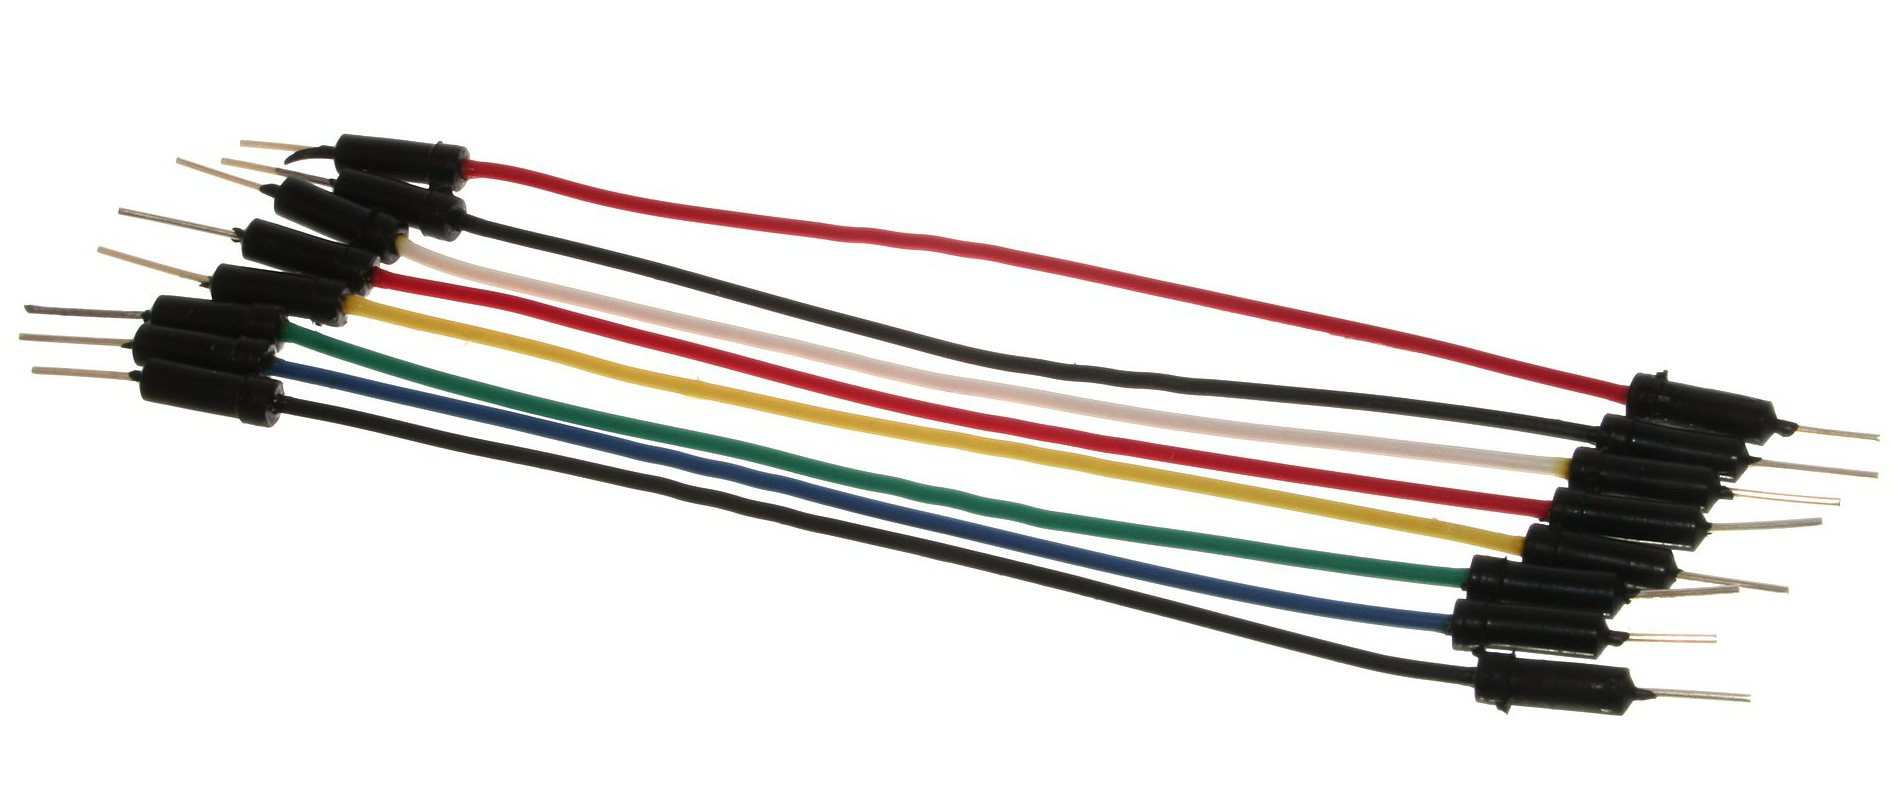
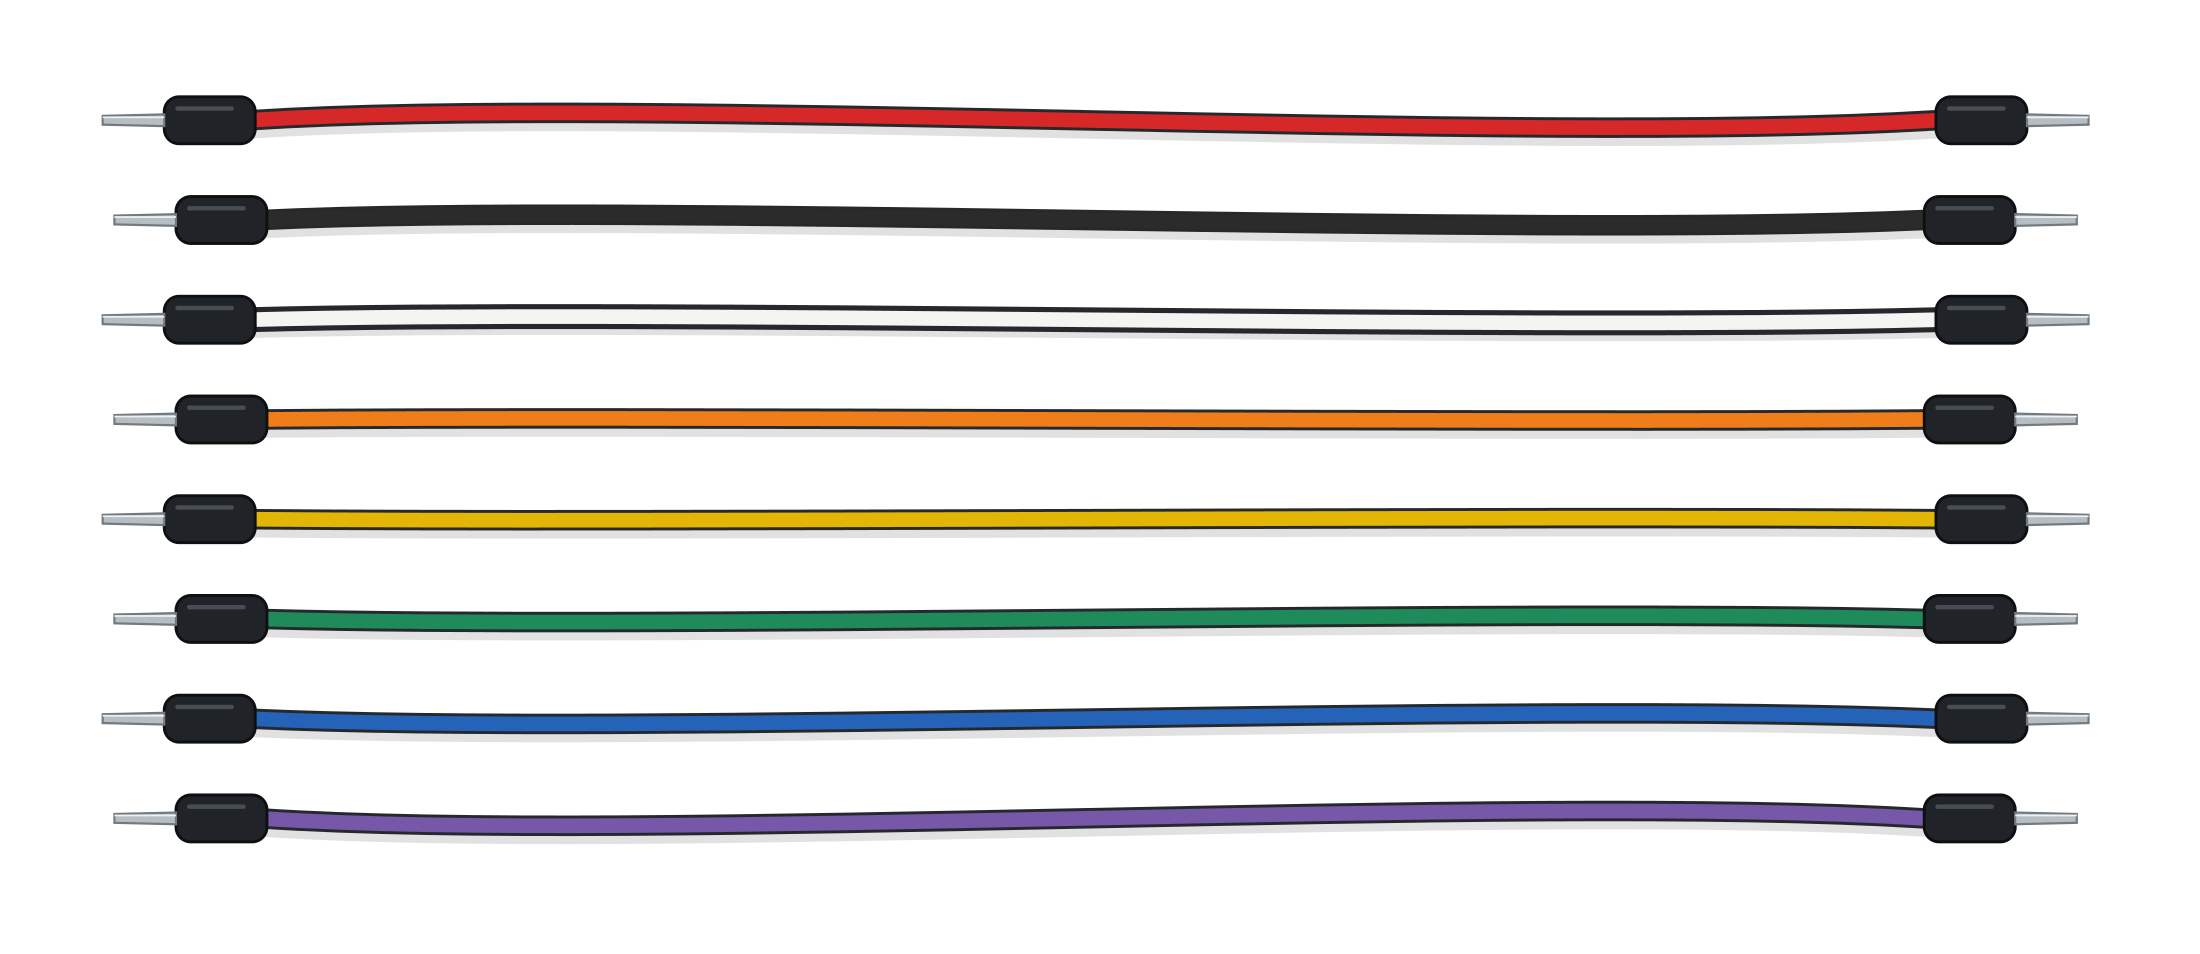
Update illustrations

diff --git a/micropython_workshop/project_guide/electronics_preamble/electronics_preamble.tex b/micropython_workshop/project_guide/electronics_preamble/electronics_preamble.tex
@@ -3,8 +3,8 @@
 This beginner's guide introduces the essential components and circuit-building concepts
 you will use throughout this workshop. We will cover the breadboard, LEDs, current-limiting
 resistors, pushbuttons, jumper wires, and fundamental electrical safety. Later projects will
-introduce additional modules---such as addressable RGB LEDs, rotary encoders, speakers, OLED
-displays, and motion sensors---which connect using these same breadboard rows and power rails.
+introduce additional modules---such as addressable RGB LEDs, rotary encoders, speakers, and OLED
+displays---which connect using these same breadboard rows and power rails.
 
 \section{The Breadboard: Your Circuit's Foundation}
 
@@ -71,35 +71,7 @@ LEDs are \textbf{polarized}---electricity can only flow through them in one dire
 
 \begin{figure}[H]
 \centering
-\begin{tikzpicture}[x=1cm,y=1cm,>=latex]
-    % Side view: the unequal lead lengths are deliberately exaggerated.
-    \node[font=\bfseries] at (-2.2,1.45) {Side view};
-    \fill[red!55,draw=black,line width=1pt]
-        (-2.95,0) -- (-2.95,0.55) arc[start angle=180,end angle=0,radius=0.75]
-        -- (-1.45,0) -- cycle;
-    \fill[red!70,draw=black,line width=1pt] (-3.05,-0.22) rectangle (-1.35,0);
-    \draw[line width=1.6pt,gray!65!black] (-2.65,-0.22) -- (-2.65,-2.05);
-    \draw[line width=1.6pt,gray!65!black] (-1.75,-0.22) -- (-1.75,-1.35);
-
-    \draw[->,thick,red!70!black] (-3.9,-1.75) -- (-2.75,-1.75);
-    \node[anchor=east,align=right] at (-3.9,-1.75)
-        {\textbf{Anode (+)}\\\small longer lead};
-    \draw[->,thick,blue!70!black] (-0.55,-1.15) -- (-1.65,-1.15);
-    \node[anchor=west,align=left] at (-0.55,-1.15)
-        {\textbf{Cathode (--) }\\\small shorter lead};
-
-    % Top view: the dome is round; only the wider base lip has a small flat.
-    \node[font=\bfseries] at (3.0,1.45) {Top view};
-    \fill[red!70,draw=black,line width=1pt]
-        (3.76,0.38)
-        arc[start angle=26.6,end angle=333.4,radius=0.85]
-        -- cycle;
-    \fill[red!45,draw=black,line width=1pt] (3.0,0) circle[radius=0.68];
-    \draw[line width=2pt,blue!70!black] (3.76,-0.38) -- (3.76,0.38);
-    \draw[->,thick,blue!70!black] (5.35,0) -- (3.86,0);
-    \node[anchor=west,align=left] at (5.35,0)
-        {\textbf{Flat on base lip}\\\small marks the cathode};
-\end{tikzpicture}
+\maybeincludegraphics[width=.9\linewidth]{electronics_preamble/led_polarity.png}
 \caption{Use either clue to identify LED polarity: the cathode has the shorter lead and the flat edge.}
 \label{fig:led_polarity}
 \end{figure}

diff --git a/micropython_workshop/project_guide/common/resistor_identification.tex b/micropython_workshop/project_guide/common/resistor_identification.tex
@@ -1,33 +1,10 @@
-% Telling the 220 ohm and 10k ohm resistors apart. The resistors are drawn with
-% TikZ rather than photographed because the band colors have to stay readable
-% when the guide is printed in a classroom.
-\providecolor{bodymetal}{HTML}{9FC2E8}
-% xcolor's brown is a light tan that reads as gold next to the other bands.
-\providecolor{bandbrown}{HTML}{7B4A12}
-
-% \resistorglyph{band 1}{band 2}{band 3}{band 4}{band 5}
-% The kit's resistors carry one band on each end bulge and three across the
-% middle, all at roughly even spacing, so the geometry here is fixed.
-\providecommand{\resistorglyph}[5]{%
-\begin{tikzpicture}[x=1cm, y=1cm]
-    \draw[line width=1pt, gray!50!black] (-0.5,0.3) -- (2.8,0.3);
-    \draw[fill=bodymetal, draw=black!55] (0.24,0.04) rectangle (2.06,0.56);
-    \draw[fill=bodymetal, draw=black!55, rounded corners=3pt] (0.02,0) rectangle (0.46,0.6);
-    \draw[fill=bodymetal, draw=black!55, rounded corners=3pt] (1.84,0) rectangle (2.28,0.6);
-    \fill[#1] (0.16,0.01) rectangle (0.32,0.59);
-    \fill[#2] (0.62,0.05) rectangle (0.78,0.55);
-    \fill[#3] (1.07,0.05) rectangle (1.23,0.55);
-    \fill[#4] (1.52,0.05) rectangle (1.68,0.55);
-    \fill[#5] (1.98,0.01) rectangle (2.14,0.59);
-\end{tikzpicture}%
-}
-
-% \resistorcell{value}{band 1}{band 2}{band 3}{band 4}{band 5}{caption}
-\providecommand{\resistorcell}[7]{%
+% The resistor graphics are generated with the other guide illustrations.
+% \resistorcell{value}{image filename}{caption}
+\providecommand{\resistorcell}[3]{%
 \begin{tabular}{c}
     \textbf{#1} \\[4pt]
-    \resistorglyph{#2}{#3}{#4}{#5}{#6} \\[2pt]
-    \small #7
+    \maybeincludegraphics[width=3cm]{electronics_preamble/#2} \\[2pt]
+    \small #3
 \end{tabular}%
 }
 
@@ -42,7 +19,7 @@
     \medskip
     \centering
     \begin{tabular}{c @{\hspace{3em}} c}
-        \resistorcell{220\si{\ohm}}{red}{red}{black}{black}{bandbrown}{two red bands} &
-        \resistorcell{10\si{\kilo\ohm}}{bandbrown}{black}{black}{red}{bandbrown}{one red band}
+        \resistorcell{220\si{\ohm}}{resistor_220.png}{two red bands} &
+        \resistorcell{10\si{\kilo\ohm}}{resistor_10k.png}{one red band}
     \end{tabular}
 \end{tcolorbox}

diff --git a/micropython_workshop/project_guide/projects/project_1.tex b/micropython_workshop/project_guide/projects/project_1.tex
@@ -81,20 +81,7 @@ other in \bbhole{ldr-resistor.end}{A14}.
 The LDR and the 10\si{\kilo\ohm} resistor share column 10 to form a \textbf{voltage divider}:
 
 \begin{center}
-\begin{tikzpicture}[x=1cm, y=1cm, >=latex]
-    \node[draw, rounded corners, fill=red!10, text=black, inner sep=4pt] (vcc) at (0,0) {\textbf{3.3V}};
-    \node[draw, fill=yellow!15, text=black, inner sep=4pt] (ldr) at (2.2,0) {\textbf{LDR}};
-    \node[draw, circle, fill=blue!15, text=black, inner sep=2pt] (sense) at (4.8,0) {\textbf{Col 10}};
-    \node[draw, fill=blue!10, text=black, inner sep=4pt] (res) at (7.4,0) {\textbf{10\si{\kilo\ohm}}};
-    \node[draw, rounded corners, fill=gray!20, text=black, inner sep=4pt] (gnd) at (9.6,0) {\textbf{GND}};
-
-    \draw[->, thick] (vcc) -- (ldr);
-    \draw[->, thick] (ldr) -- (sense);
-    \draw[->, thick] (sense) -- (res);
-    \draw[->, thick] (res) -- (gnd);
-    
-    \draw[->, thick, blue!80!black] (sense) -- ++(0,-0.8) node[below, font=\small] {\textbf{GPIO 2 (ADC input)}};
-\end{tikzpicture}
+\maybeincludegraphics[width=.95\linewidth]{project_1/voltage_divider.png}
 \end{center}
 
 Because the microcontroller's analog pin measures \textbf{voltage} rather than resistance directly,

diff --git a/micropython_workshop/project_guide/tools/diagram_generator.py b/micropython_workshop/project_guide/tools/diagram_generator.py
@@ -1,5 +1,5 @@
 #!/usr/bin/env python3
-r"""Render breadboard diagrams from coordinates embedded in the project text.
+r"""Generate project-guide illustrations and breadboard wiring diagrams.
 
 The project guide is the single source of truth: ``\bbhole{name}{coordinate}``
 prints a coordinate in the PDF and gives it a stable name. This script reads
@@ -11,7 +11,7 @@ seating coordinates come from common/microcontroller_seating.tex and each projec
 contributes only its own components.
 
 Usage:
-    python3 tools/breadboard_diagrams.py [--project 3]
+    python3 tools/diagram_generator.py [--project 3]
 
 Writes PNG files under project_guide/images/. Requires rsvg-convert
 (brew install librsvg) to rasterize the generated SVG.

diff --git a/micropython_workshop/project_guide/project_guide.tex b/micropython_workshop/project_guide/project_guide.tex
@@ -17,7 +17,6 @@
 \usepackage{tcolorbox}
 \usepackage{siunitx} % Allows us to use math symbols (like Omega) in normal paragraphs
 \usepackage{float} % Allows specifying putting an image exactly where it is in the .tex code flow
-\usepackage{tikz} % draw diagrams (like the resistor color bands) directly in the document
 \usepackage{multicol} % lay out short lists (like the components list) in columns
 \usepackage{enumitem} % control the spacing of list items
 \usepackage{pdfpages} % used to include an externally created PDF (like our cover)

diff --git a/README.md b/README.md
@@ -67,7 +67,7 @@ After changing a hole or connection in the project text, regenerate the diagrams
 
 ```sh
 cd micropython_workshop/project_guide
-python3 tools/breadboard_diagrams.py            # or --project 3
+python3 tools/diagram_generator.py              # or --project 3
 ```
 
 The script needs `rsvg-convert` to turn generated SVG into PNG (`brew install librsvg` on
